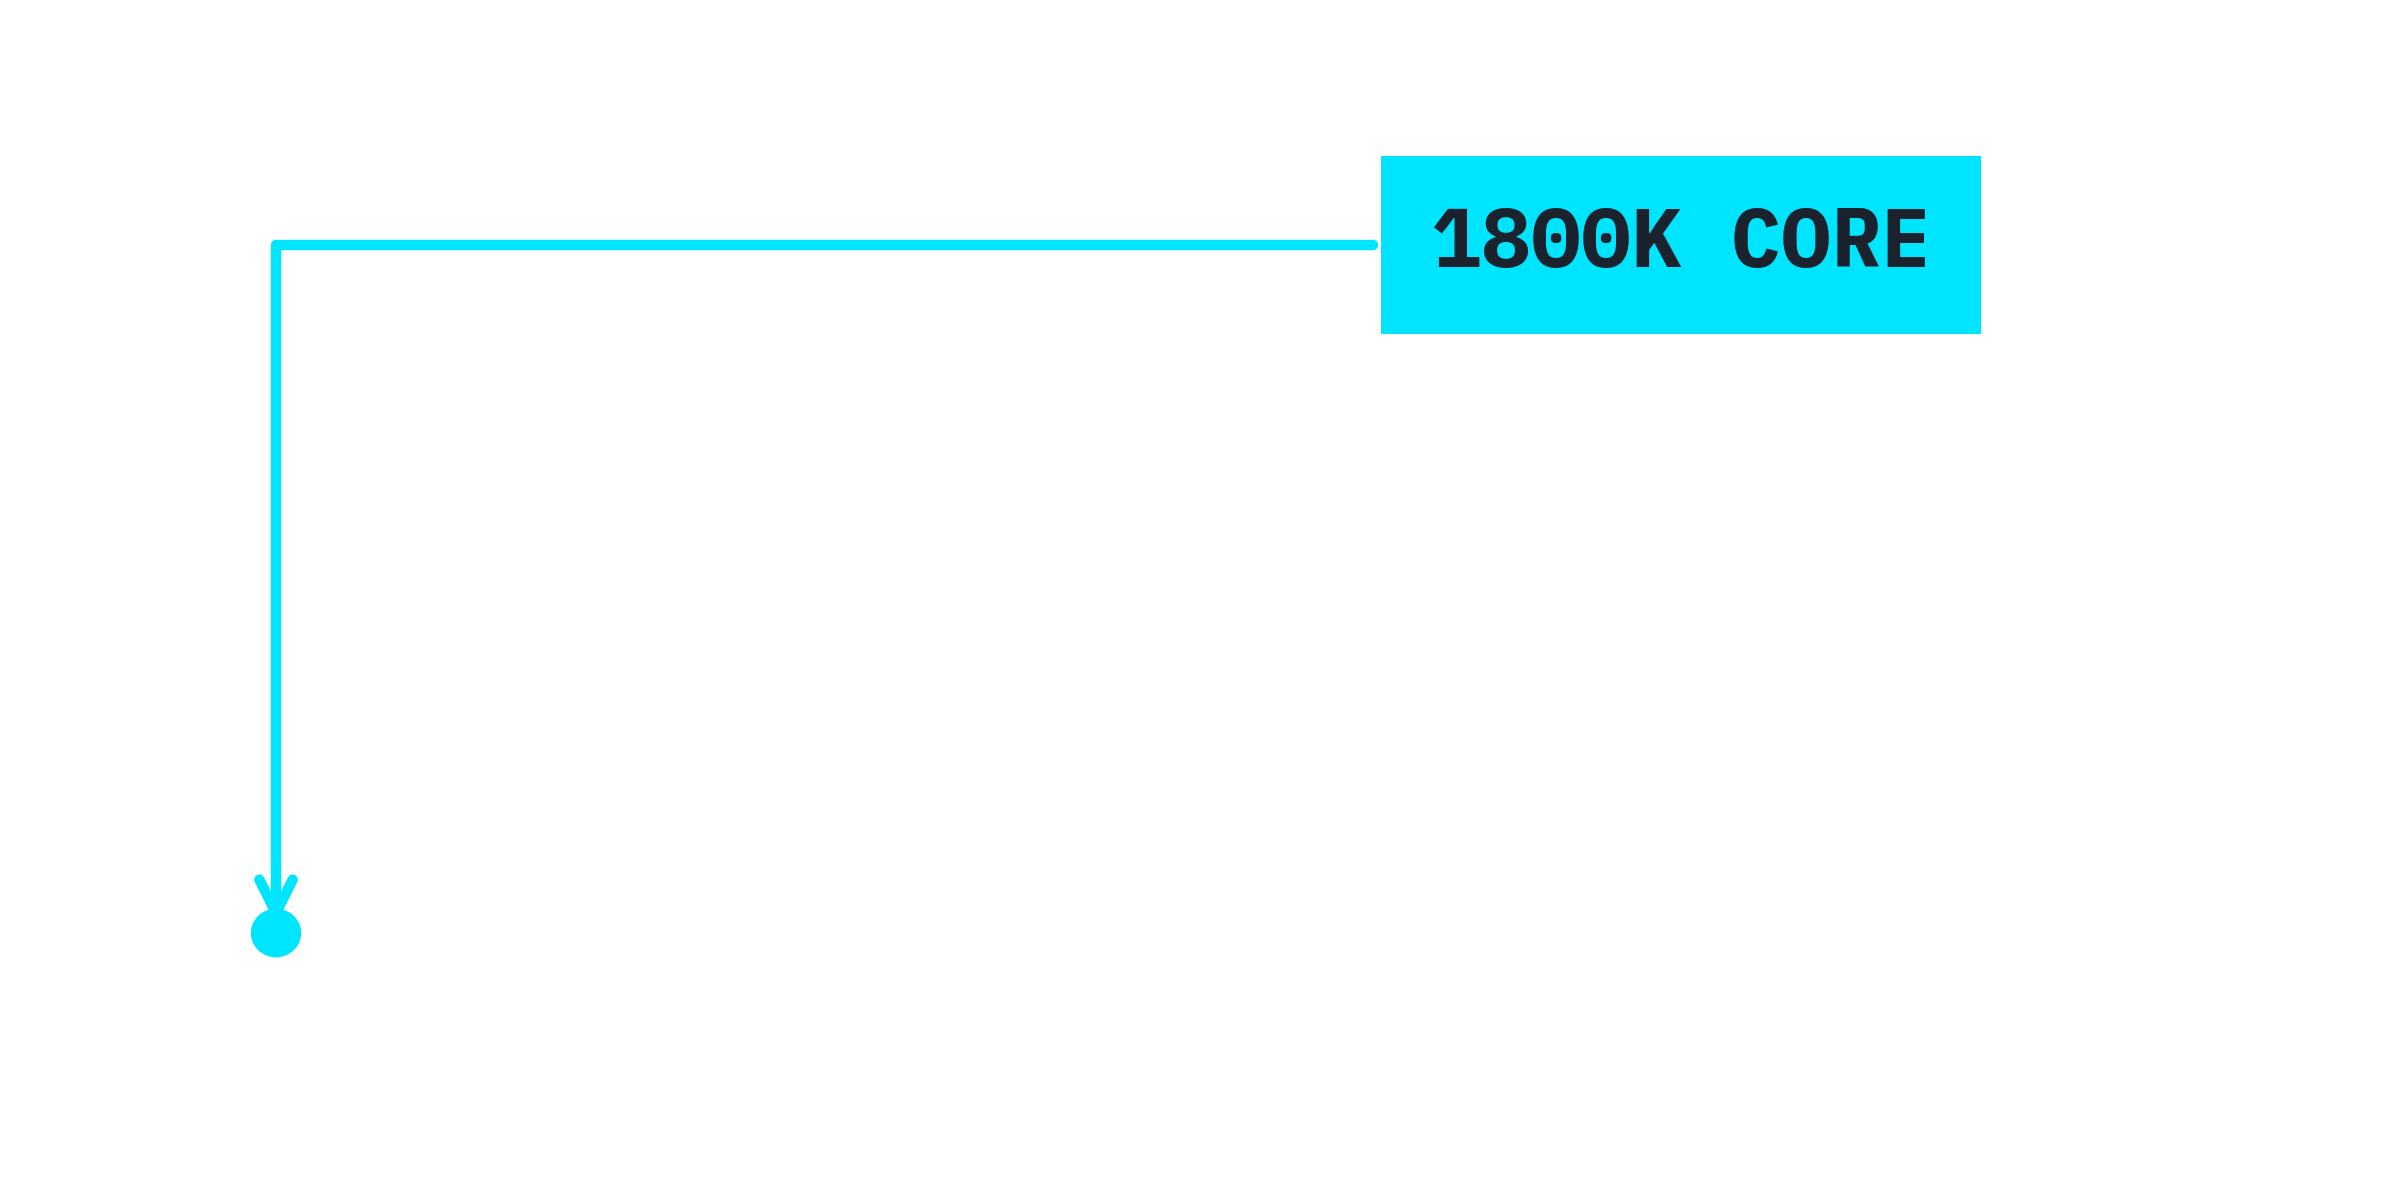
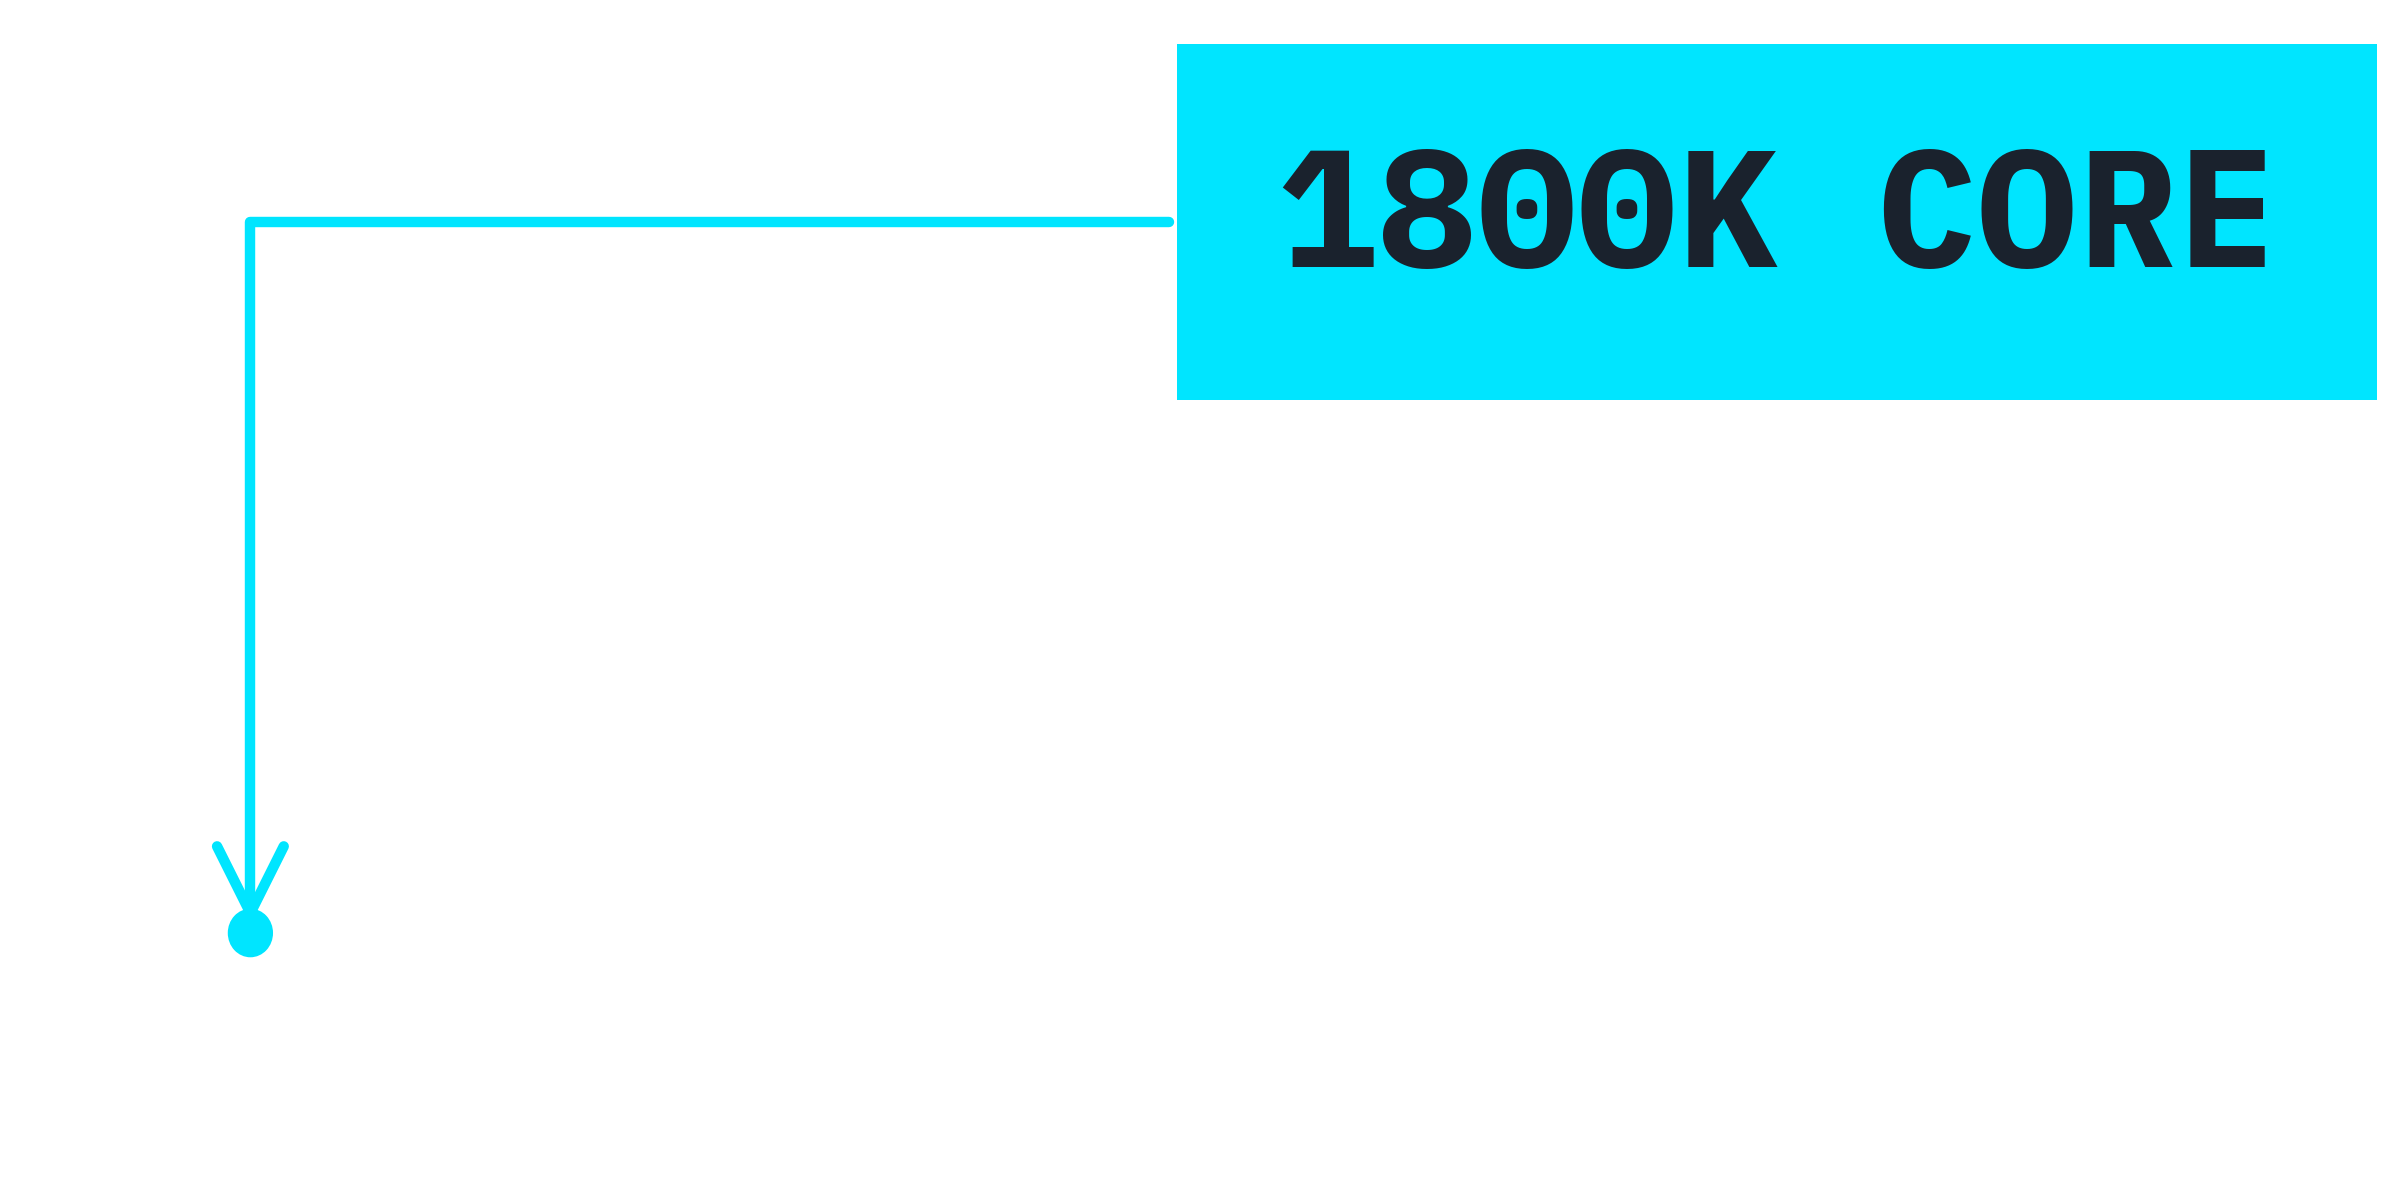
Changes made for the MVP Thumbnail overlays

Changed region(s): [[0.0938, 0.0308, 1.0, 0.8017]]

diff --git a/overlay.py b/overlay.py
@@ -17,7 +17,7 @@ def create_cad_overlay(text="12.5 mm", style='horizontal', filename='overlay.png
     COLOR_CYAN  = '#00E5FF'  # The signature Cyan
     COLOR_TEXT  = '#1A222D'  # Dark (for inside the cyan box)
     FONT_FAMILY = 'IBM Plex Mono'
-    FONT_SIZE   = 20
+    FONT_SIZE   = 40
     LINE_WIDTH  = 2.5
     
     # ==========================================
@@ -38,19 +38,19 @@ def create_cad_overlay(text="12.5 mm", style='horizontal', filename='overlay.png
     if style == 'horizontal':
         # Draw the main line with arrows
         ax.annotate(
-            '', xy=(0.5, 2.5), xytext=(9.5, 2.5),
-            arrowprops=dict(arrowstyle='<|-|>', color=COLOR_CYAN, lw=LINE_WIDTH, mutation_scale=20)
+            '', xy=(1.6, 2.5), xytext=(2.6, 2.5),
+            arrowprops=dict(arrowstyle='<|-|>', color=COLOR_CYAN, lw=LINE_WIDTH-0.5, mutation_scale=25)
         )
         # Draw the "End Caps" (Vertical lines at the measurement points)
-        ax.plot([0.5, 0.5], [2.2, 2.8], color=COLOR_CYAN, lw=LINE_WIDTH) # Left Cap
-        ax.plot([9.5, 9.5], [2.2, 2.8], color=COLOR_CYAN, lw=LINE_WIDTH) # Right Cap
+        ax.plot([1.6, 1.6], [2.2, 2.8], color=COLOR_CYAN, lw=LINE_WIDTH) # Left Cap
+        ax.plot([2.6, 2.6], [2.2, 2.8], color=COLOR_CYAN, lw=LINE_WIDTH) # Right Cap
         
         # Draw the Text Box in the center
         ax.text(
-            5.0, 2.5, text,
+            6.0, 2.0, text,
             ha='center', va='center',
             color=COLOR_TEXT, fontsize=FONT_SIZE, weight='bold', family=FONT_FAMILY,
-            bbox=dict(boxstyle="square,pad=0.6", fc=COLOR_CYAN, ec="none")
+            bbox=dict(boxstyle="square,pad=0.2", fc=COLOR_CYAN, ec="none")
         )
 
     # Style B: Vertical Measurement (Up/Down Arrows)
@@ -62,19 +62,19 @@ def create_cad_overlay(text="12.5 mm", style='horizontal', filename='overlay.png
         # Main Line
         ax.annotate(
             '', xy=(2.5, 0.5), xytext=(2.5, 9.5),
-            arrowprops=dict(arrowstyle='<|-|>', color=COLOR_CYAN, lw=LINE_WIDTH, mutation_scale=20)
+            arrowprops=dict(arrowstyle='<|-|>', color=COLOR_CYAN, lw=LINE_WIDTH, mutation_scale=50)
         )
         # End Caps (Horizontal lines)
         ax.plot([2.2, 2.8], [0.5, 0.5], color=COLOR_CYAN, lw=LINE_WIDTH) # Bottom Cap
         ax.plot([2.2, 2.8], [9.5, 9.5], color=COLOR_CYAN, lw=LINE_WIDTH) # Top Cap
         
         # Text Box (Rotated 90 degrees or Horizontal? Usually horizontal is easier to read)
-        ax.text(
-            2.5, 5.0, text,
-            ha='center', va='center', rotation=90,
-            color=COLOR_TEXT, fontsize=FONT_SIZE, weight='bold', family=FONT_FAMILY,
-            bbox=dict(boxstyle="square,pad=0.6", fc=COLOR_CYAN, ec="none")
-        )
+        #ax.text(
+        #    2.5, 5.0, text,
+        #    ha='center', va='center', rotation=90,
+        #    color=COLOR_TEXT, fontsize=FONT_SIZE, weight='bold', family=FONT_FAMILY,
+        #    bbox=dict(boxstyle="square,pad=0.6", fc=COLOR_CYAN, ec="none")
+        #)
 
     # Style C: Callout Pointer (Line pointing to a spot)
     elif style == 'callout':
@@ -114,10 +114,10 @@ if __name__ == "__main__":
     # Generate 3 Standard Templates for your Library
     
     # 1. The "Width" Measure (Good for Battery size, Glue gap)
-    create_cad_overlay("12.7 mm", style='horizontal', filename='CAD_Overlay_Horizontal.png')
+    create_cad_overlay("1.39V ↘ 1.27V", style='horizontal', filename='CAD_Overlay_Horizontal.png')
     
     # 2. The "Height" Measure (Good for Flame height, Stack size)
     create_cad_overlay("TEMP: 45C", style='vertical', filename='CAD_Overlay_Vertical.png')
     
     # 3. The "Spec" Callout (Good for pointing at LED filament or Crack)
-    create_cad_overlay("1800K CORE", style='callout', filename='CAD_Overlay_Callout.png')
+    #create_cad_overlay("1800K CORE", style='callout', filename='CAD_Overlay_Callout.png')
